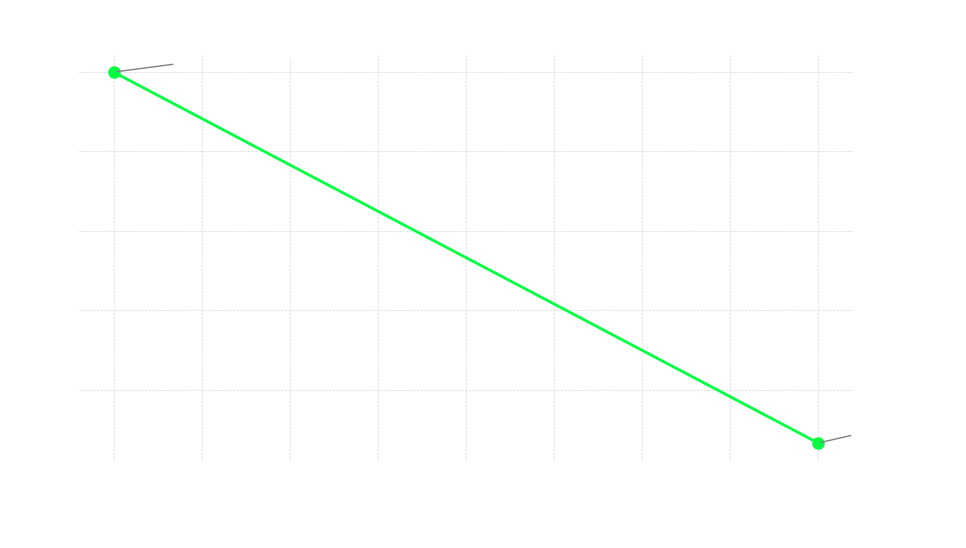
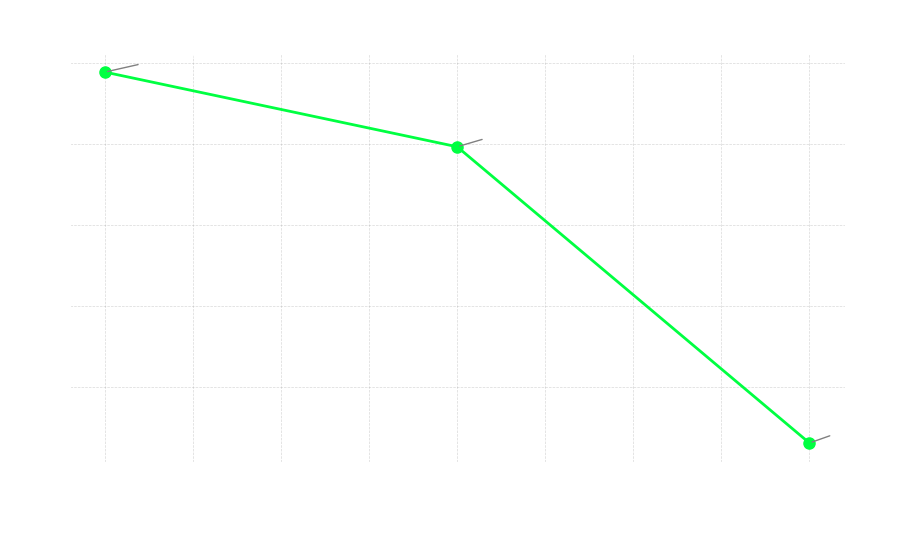
Generated new benchmark graph

diff --git a/gen_graph.py b/gen_graph.py
@@ -7,8 +7,8 @@ from datetime import datetime
 # --- YOUR DATA HERE ---
 # Format: ("YYYY-MM-DD", time_in_seconds, "Label/Commit Name")
 data = [
-    ("2026-01-04", 294.24, "Initial Parallel Model")
-    ("2026-01-06", 248.14, "Action Pruning"),
+    ("2026-01-04", 294.24, "Initial Parallel Model"),
+    ("2026-01-05", 248.14, "Action Pruning"),
     ("2026-01-06", 65.3, "Wordle LUT"),
 ]
 # ----------------------
